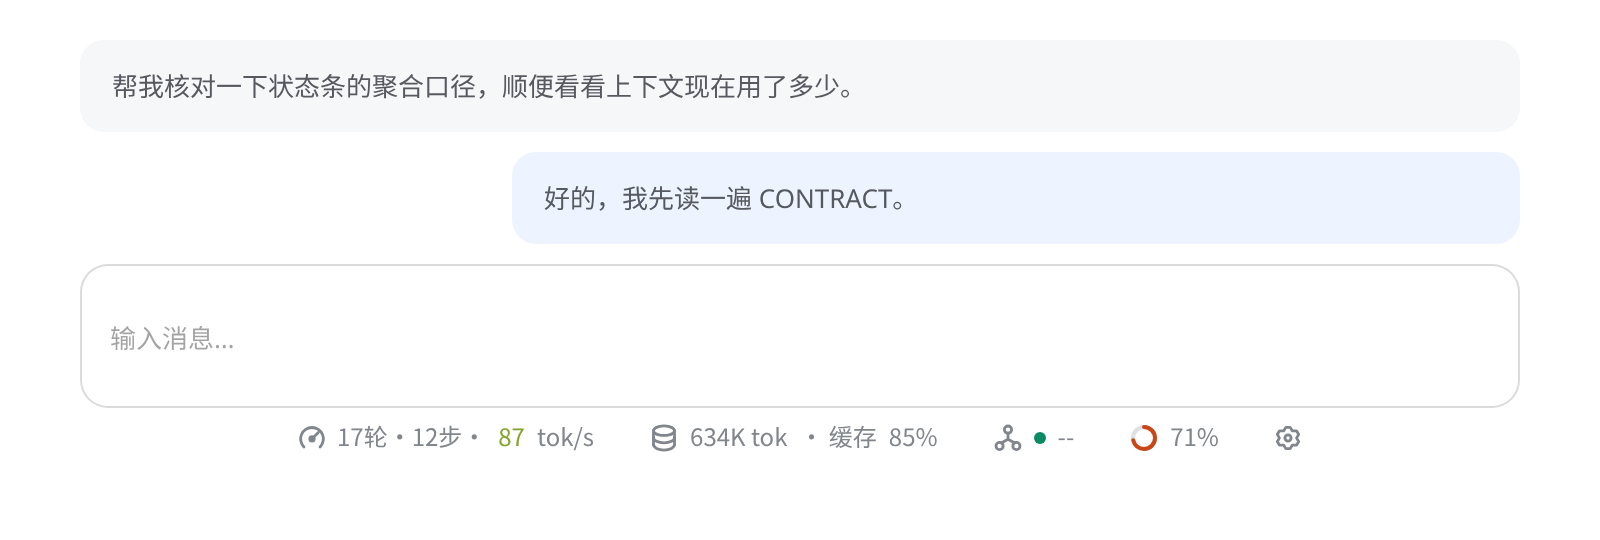
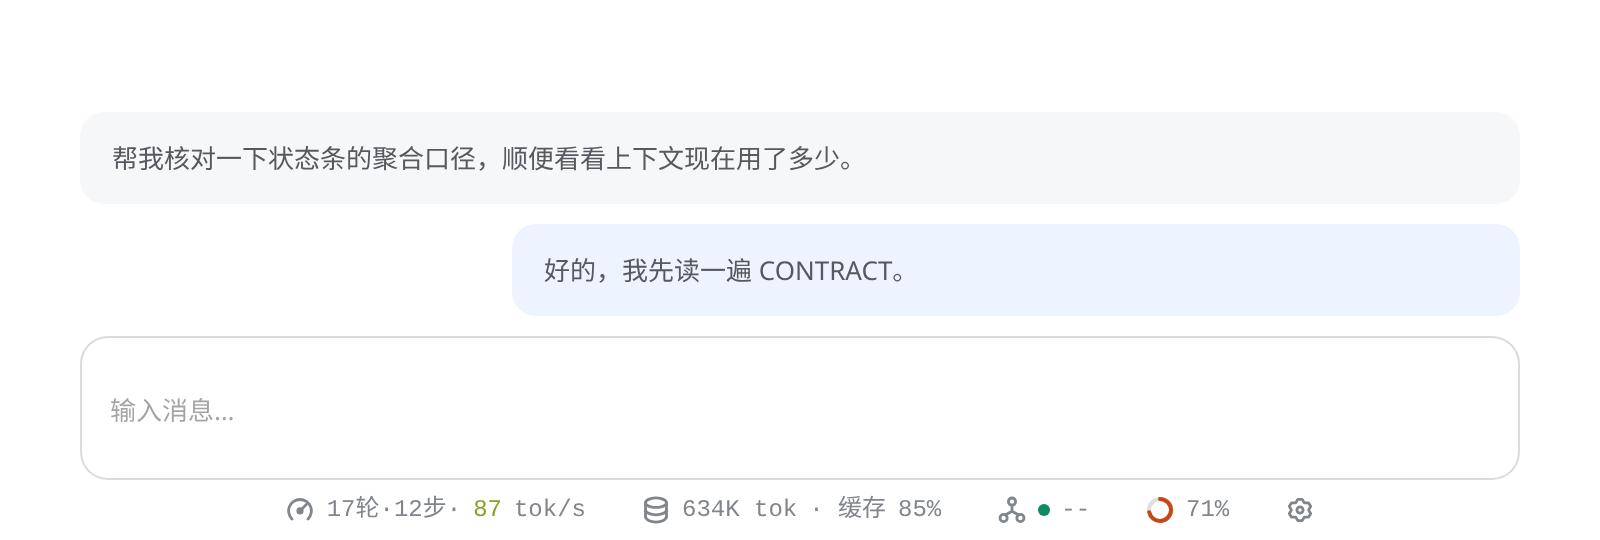
fix: balance statusbar spacing and clarify detail headings

diff --git a/plugins/zcode-statusbar/statusbar.js b/plugins/zcode-statusbar/statusbar.js
@@ -168,6 +168,7 @@
   var DEFAULT_MONO =
     'ui-monospace, SFMono-Regular, Menlo, Monaco, Consolas, "Liberation Mono", "Courier New", ' +
     '"Microsoft YaHei UI", "Microsoft YaHei", "PingFang SC", "Noto Sans CJK SC", monospace';
+  var DEFAULT_UI = '"Segoe UI", "Microsoft YaHei UI", "Microsoft YaHei", "PingFang SC", "Noto Sans CJK SC", system-ui, sans-serif';
 
   // ================= 运行时状态 =================
 
@@ -281,8 +282,8 @@
     // safe center：极窄时退化为左对齐，读数从头可见，而不是两端各裁一半。
     '.zsb-bar{position:relative;display:flex;justify-content:center;justify-content:safe center;',
     'align-items:center;gap:12px;',
-    'min-height:22px;margin-top:4px;margin-bottom:8px;',
-    'font-family:var(--zcode-font-mono,' + JSON.stringify(DEFAULT_MONO) + ');',
+    'min-height:22px;margin-top:4px;margin-bottom:4px;',
+    'font-family:var(--zcode-font-mono,' + DEFAULT_MONO + ');',
     'font-size:var(--zcode-font-text-sm-size,12px);font-weight:400;line-height:20px;',
     'color:var(--zcode-color-text-secondary,var(--zsb-subtle,#818a8c));',
     'font-variant-numeric:tabular-nums;user-select:none;-webkit-user-select:none;z-index:60;',
@@ -326,8 +327,8 @@
     '.zsb-livedot.zsb-pulse{animation:zsb-pulse 1.6s ease-in-out infinite;}',
     // 子代理面板：分组 + 每行「状态点 类型 任务 →」。省略号统一给中间的任务列，
     // 类型与箭头固定在两端，行宽不随任务文本跳动。
-    '.zsb-subgroup{margin-top:10px;}',
-    '.zsb-subgroup:first-child{margin-top:0;}',
+    '.zsb-subgroup{margin-top:12px;padding-top:10px;border-top:1px solid color-mix(in srgb,currentColor 14%,transparent);}',
+    '.zsb-subgroup:first-child{margin-top:0;padding-top:0;border-top:0;}',
     '.zsb-subrow{display:flex;align-items:center;gap:6px;line-height:24px;padding:1px 4px;border-radius:6px;',
     'border:0;background:transparent;color:inherit;font:inherit;font-size:inherit;text-align:left;',
     'width:100%;cursor:pointer;font-variant-numeric:tabular-nums;}',
@@ -349,7 +350,7 @@
     '.zsb-ctxseg{display:block;height:100%;flex:none;min-width:2px;transition:width .3s ease;}',
     // 头部：读数与总量同时可见，读数为强调色、其余为弱化色（对齐 deepseek header 层级）
     '.zsb-ctx-head{display:flex;align-items:baseline;gap:6px;line-height:22px;}',
-    '.zsb-ctx-headline{opacity:.7;}',
+    '.zsb-ctx-headline{font-weight:700;}',
     '.zsb-ctx-percent{font-weight:500;}',
     '.zsb-ctx-figures{margin-left:auto;font-weight:500;font-variant-numeric:tabular-nums;white-space:nowrap;}',
     '.zsb-ctxlist{margin-top:8px;}',
@@ -363,15 +364,16 @@
     'min-width:280px;max-width:360px;padding:12px 14px;border-radius:12px;',
     'background:var(--zsb-pop-bg,var(--zsb-pop-bg-fallback,#fff));border:1px solid var(--zsb-pop-border,rgba(0,0,0,.12));',
     'box-shadow:0 8px 28px rgba(0,0,0,.18);color:var(--zcode-color-text-primary,var(--zsb-primary,#232629));',
+    'font-family:var(--zsb-font-ui,' + DEFAULT_UI + ');font-weight:400;font-synthesis:weight;',
     'font-variant-numeric:tabular-nums;text-align:left;z-index:70;}',
     '.zsb-pop[hidden]{display:none;}',
-    '.zsb-pop-title{font-weight:500;margin-bottom:8px;}',
+    '.zsb-pop .zsb-pop-title{font-weight:700;font-size:calc(var(--zcode-font-text-sm-size,12px) + 1px);line-height:22px;margin-bottom:8px;}',
     '.zsb-row{display:flex;justify-content:space-between;gap:16px;line-height:22px;}',
     '.zsb-row .k{opacity:.85;white-space:nowrap;}',
     '.zsb-row .v{white-space:nowrap;}',
     // 工具名行截断：长工具名（如 MCP 全名）不撑破 max-width:360px 的弹层（.k 默认 nowrap 不截断）
     '.zsb-row .zsb-tool-k{min-width:0;max-width:60%;overflow:hidden;text-overflow:ellipsis;white-space:nowrap;}',
-    '.zsb-sec{margin-top:10px;}',
+    '.zsb-sec{margin-top:12px;padding-top:10px;border-top:1px solid color-mix(in srgb,currentColor 14%,transparent);}',
     // 速度趋势折线图：SVG 按容器像素宽定点绘制，文字/网格线经类名统一弱化着色
     '.zsb-trend{height:64px;margin-top:4px;}',
     '.zsb-trend svg{display:block;width:100%;height:64px;}',
@@ -382,7 +384,7 @@
     '.zsb-trend .zsb-tick{fill:currentColor;opacity:.55;}',
     '.zsb-trend .zsb-tnow{font-weight:500;}',
     '.zsb-menu{display:flex;flex-direction:column;min-width:180px;}',
-    '.zsb-menu-title{opacity:.7;margin-bottom:4px;}',
+    '.zsb-menu-title{font-weight:700;margin-bottom:4px;}',
     '.zsb-mi{display:flex;justify-content:space-between;align-items:center;gap:12px;border:0;background:transparent;',
     'color:inherit;font:inherit;line-height:26px;padding:0 4px;border-radius:6px;cursor:pointer;text-align:left;white-space:nowrap;}',
     '.zsb-mi:hover{background:color-mix(in srgb,currentColor 10%,transparent);}',
@@ -416,11 +418,13 @@
     }
     // 官方变量桥接（research/zcode-official-context.md）：--font-mono / --text-ui-sm / --color-foreground(-subtle)
     var mono = hostVar('--font-mono');
+    var sans = hostVar('--font-sans');
     var smSize = hostVar('--text-ui-sm');
     var subtle = hostVar('--color-foreground-subtle');
     var primary = hostVar('--color-foreground');
     var bg = hostVar('--color-background');
     if (mono) root.style.setProperty('--zcode-font-mono', mono);
+    if (sans) root.style.setProperty('--zsb-font-ui', sans);
     if (smSize) root.style.setProperty('--zcode-font-text-sm-size', smSize);
     if (subtle) root.style.setProperty('--zcode-color-text-secondary', subtle);
     if (primary) root.style.setProperty('--zcode-color-text-primary', primary);
@@ -734,7 +738,7 @@
     rTps.appendChild(tpsVal);
     pop.appendChild(rTps);
     var trendSec = el('div', 'zsb-sec');
-    trendSec.appendChild(el('div', 'k', I18N.trend));
+    trendSec.appendChild(el('div', 'zsb-pop-title', I18N.trend));
     var trend = Array.isArray(s.speedTrend) ? s.speedTrend : [];
     if (!trend.length) {
       trendSec.appendChild(el('div', 'k', I18N.noData));
@@ -1255,6 +1259,26 @@
     fitSpan = pillsSpan(); // 记录收敛后的跨度，作为下一轮的稳态判据
   }
 
+  function balanceDockGap() {
+    if (!ui || !mountAnchor || !W.innerHeight || !W.getComputedStyle) return;
+    try {
+      var bar = ui.bar;
+      var box = bar.getBoundingClientRect();
+      var topGap = box.top - mountAnchor.getBoundingClientRect().bottom;
+      var margin = parseFloat(W.getComputedStyle(bar).marginBottom);
+      var dockGap = W.innerHeight - box.bottom - margin;
+      // 只补偿窗口底部已知大小的 dock 留白，避免浮动/嵌入布局产生过大的负 margin。
+      if (!isFinite(topGap) || !isFinite(margin) || !isFinite(dockGap) || topGap < 0 || dockGap < -0.5 || dockGap > 24) {
+        if (bar.style.marginBottom) bar.style.marginBottom = '';
+        return;
+      }
+      var next = topGap - Math.max(0, dockGap);
+      if (Math.abs(next - margin) > 0.5) bar.style.marginBottom = next + 'px';
+    } catch (e) {
+      /* 无布局信息时保留 CSS 默认间距 */
+    }
+  }
+
   // 会话数据规范化：内核 session 事件的 detail 为 { ...zusage 快照, aggregate }（聚合缝
   // 包裹，见 inject-main.cjs handlePayload / CONTRACT.md §7.2）；本 UI 只消费 aggregate
   // 形状（CONTRACT.md §4.2）。非包裹路径（detail 即 aggregate）按特征键识别放行；
@@ -1369,6 +1393,7 @@
       ui.bar.dataset.sub = subRunning ? 'run' : 'idle';
     }
     fitBar();
+    balanceDockGap();
   }
 
   // ================= 上下文占用（R4，读宿主隐藏锚点；缺失静默） =================
@@ -1629,6 +1654,7 @@
     try {
       resizeObserver = new RO(function () {
         fitBar();
+        balanceDockGap();
       });
       resizeObserver.observe(target);
     } catch (e) {

diff --git a/statusbar/statusbar.js b/statusbar/statusbar.js
@@ -168,6 +168,7 @@
   var DEFAULT_MONO =
     'ui-monospace, SFMono-Regular, Menlo, Monaco, Consolas, "Liberation Mono", "Courier New", ' +
     '"Microsoft YaHei UI", "Microsoft YaHei", "PingFang SC", "Noto Sans CJK SC", monospace';
+  var DEFAULT_UI = '"Segoe UI", "Microsoft YaHei UI", "Microsoft YaHei", "PingFang SC", "Noto Sans CJK SC", system-ui, sans-serif';
 
   // ================= 运行时状态 =================
 
@@ -281,8 +282,8 @@
     // safe center：极窄时退化为左对齐，读数从头可见，而不是两端各裁一半。
     '.zsb-bar{position:relative;display:flex;justify-content:center;justify-content:safe center;',
     'align-items:center;gap:12px;',
-    'min-height:22px;margin-top:4px;margin-bottom:8px;',
-    'font-family:var(--zcode-font-mono,' + JSON.stringify(DEFAULT_MONO) + ');',
+    'min-height:22px;margin-top:4px;margin-bottom:4px;',
+    'font-family:var(--zcode-font-mono,' + DEFAULT_MONO + ');',
     'font-size:var(--zcode-font-text-sm-size,12px);font-weight:400;line-height:20px;',
     'color:var(--zcode-color-text-secondary,var(--zsb-subtle,#818a8c));',
     'font-variant-numeric:tabular-nums;user-select:none;-webkit-user-select:none;z-index:60;',
@@ -326,8 +327,8 @@
     '.zsb-livedot.zsb-pulse{animation:zsb-pulse 1.6s ease-in-out infinite;}',
     // 子代理面板：分组 + 每行「状态点 类型 任务 →」。省略号统一给中间的任务列，
     // 类型与箭头固定在两端，行宽不随任务文本跳动。
-    '.zsb-subgroup{margin-top:10px;}',
-    '.zsb-subgroup:first-child{margin-top:0;}',
+    '.zsb-subgroup{margin-top:12px;padding-top:10px;border-top:1px solid color-mix(in srgb,currentColor 14%,transparent);}',
+    '.zsb-subgroup:first-child{margin-top:0;padding-top:0;border-top:0;}',
     '.zsb-subrow{display:flex;align-items:center;gap:6px;line-height:24px;padding:1px 4px;border-radius:6px;',
     'border:0;background:transparent;color:inherit;font:inherit;font-size:inherit;text-align:left;',
     'width:100%;cursor:pointer;font-variant-numeric:tabular-nums;}',
@@ -349,7 +350,7 @@
     '.zsb-ctxseg{display:block;height:100%;flex:none;min-width:2px;transition:width .3s ease;}',
     // 头部：读数与总量同时可见，读数为强调色、其余为弱化色（对齐 deepseek header 层级）
     '.zsb-ctx-head{display:flex;align-items:baseline;gap:6px;line-height:22px;}',
-    '.zsb-ctx-headline{opacity:.7;}',
+    '.zsb-ctx-headline{font-weight:700;}',
     '.zsb-ctx-percent{font-weight:500;}',
     '.zsb-ctx-figures{margin-left:auto;font-weight:500;font-variant-numeric:tabular-nums;white-space:nowrap;}',
     '.zsb-ctxlist{margin-top:8px;}',
@@ -363,15 +364,16 @@
     'min-width:280px;max-width:360px;padding:12px 14px;border-radius:12px;',
     'background:var(--zsb-pop-bg,var(--zsb-pop-bg-fallback,#fff));border:1px solid var(--zsb-pop-border,rgba(0,0,0,.12));',
     'box-shadow:0 8px 28px rgba(0,0,0,.18);color:var(--zcode-color-text-primary,var(--zsb-primary,#232629));',
+    'font-family:var(--zsb-font-ui,' + DEFAULT_UI + ');font-weight:400;font-synthesis:weight;',
     'font-variant-numeric:tabular-nums;text-align:left;z-index:70;}',
     '.zsb-pop[hidden]{display:none;}',
-    '.zsb-pop-title{font-weight:500;margin-bottom:8px;}',
+    '.zsb-pop .zsb-pop-title{font-weight:700;font-size:calc(var(--zcode-font-text-sm-size,12px) + 1px);line-height:22px;margin-bottom:8px;}',
     '.zsb-row{display:flex;justify-content:space-between;gap:16px;line-height:22px;}',
     '.zsb-row .k{opacity:.85;white-space:nowrap;}',
     '.zsb-row .v{white-space:nowrap;}',
     // 工具名行截断：长工具名（如 MCP 全名）不撑破 max-width:360px 的弹层（.k 默认 nowrap 不截断）
     '.zsb-row .zsb-tool-k{min-width:0;max-width:60%;overflow:hidden;text-overflow:ellipsis;white-space:nowrap;}',
-    '.zsb-sec{margin-top:10px;}',
+    '.zsb-sec{margin-top:12px;padding-top:10px;border-top:1px solid color-mix(in srgb,currentColor 14%,transparent);}',
     // 速度趋势折线图：SVG 按容器像素宽定点绘制，文字/网格线经类名统一弱化着色
     '.zsb-trend{height:64px;margin-top:4px;}',
     '.zsb-trend svg{display:block;width:100%;height:64px;}',
@@ -382,7 +384,7 @@
     '.zsb-trend .zsb-tick{fill:currentColor;opacity:.55;}',
     '.zsb-trend .zsb-tnow{font-weight:500;}',
     '.zsb-menu{display:flex;flex-direction:column;min-width:180px;}',
-    '.zsb-menu-title{opacity:.7;margin-bottom:4px;}',
+    '.zsb-menu-title{font-weight:700;margin-bottom:4px;}',
     '.zsb-mi{display:flex;justify-content:space-between;align-items:center;gap:12px;border:0;background:transparent;',
     'color:inherit;font:inherit;line-height:26px;padding:0 4px;border-radius:6px;cursor:pointer;text-align:left;white-space:nowrap;}',
     '.zsb-mi:hover{background:color-mix(in srgb,currentColor 10%,transparent);}',
@@ -416,11 +418,13 @@
     }
     // 官方变量桥接（research/zcode-official-context.md）：--font-mono / --text-ui-sm / --color-foreground(-subtle)
     var mono = hostVar('--font-mono');
+    var sans = hostVar('--font-sans');
     var smSize = hostVar('--text-ui-sm');
     var subtle = hostVar('--color-foreground-subtle');
     var primary = hostVar('--color-foreground');
     var bg = hostVar('--color-background');
     if (mono) root.style.setProperty('--zcode-font-mono', mono);
+    if (sans) root.style.setProperty('--zsb-font-ui', sans);
     if (smSize) root.style.setProperty('--zcode-font-text-sm-size', smSize);
     if (subtle) root.style.setProperty('--zcode-color-text-secondary', subtle);
     if (primary) root.style.setProperty('--zcode-color-text-primary', primary);
@@ -734,7 +738,7 @@
     rTps.appendChild(tpsVal);
     pop.appendChild(rTps);
     var trendSec = el('div', 'zsb-sec');
-    trendSec.appendChild(el('div', 'k', I18N.trend));
+    trendSec.appendChild(el('div', 'zsb-pop-title', I18N.trend));
     var trend = Array.isArray(s.speedTrend) ? s.speedTrend : [];
     if (!trend.length) {
       trendSec.appendChild(el('div', 'k', I18N.noData));
@@ -1255,6 +1259,26 @@
     fitSpan = pillsSpan(); // 记录收敛后的跨度，作为下一轮的稳态判据
   }
 
+  function balanceDockGap() {
+    if (!ui || !mountAnchor || !W.innerHeight || !W.getComputedStyle) return;
+    try {
+      var bar = ui.bar;
+      var box = bar.getBoundingClientRect();
+      var topGap = box.top - mountAnchor.getBoundingClientRect().bottom;
+      var margin = parseFloat(W.getComputedStyle(bar).marginBottom);
+      var dockGap = W.innerHeight - box.bottom - margin;
+      // 只补偿窗口底部已知大小的 dock 留白，避免浮动/嵌入布局产生过大的负 margin。
+      if (!isFinite(topGap) || !isFinite(margin) || !isFinite(dockGap) || topGap < 0 || dockGap < -0.5 || dockGap > 24) {
+        if (bar.style.marginBottom) bar.style.marginBottom = '';
+        return;
+      }
+      var next = topGap - Math.max(0, dockGap);
+      if (Math.abs(next - margin) > 0.5) bar.style.marginBottom = next + 'px';
+    } catch (e) {
+      /* 无布局信息时保留 CSS 默认间距 */
+    }
+  }
+
   // 会话数据规范化：内核 session 事件的 detail 为 { ...zusage 快照, aggregate }（聚合缝
   // 包裹，见 inject-main.cjs handlePayload / CONTRACT.md §7.2）；本 UI 只消费 aggregate
   // 形状（CONTRACT.md §4.2）。非包裹路径（detail 即 aggregate）按特征键识别放行；
@@ -1369,6 +1393,7 @@
       ui.bar.dataset.sub = subRunning ? 'run' : 'idle';
     }
     fitBar();
+    balanceDockGap();
   }
 
   // ================= 上下文占用（R4，读宿主隐藏锚点；缺失静默） =================
@@ -1629,6 +1654,7 @@
     try {
       resizeObserver = new RO(function () {
         fitBar();
+        balanceDockGap();
       });
       resizeObserver.observe(target);
     } catch (e) {
